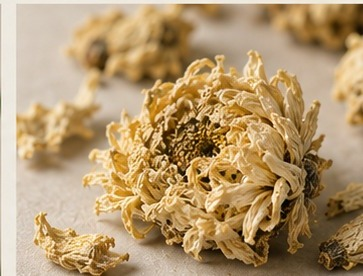
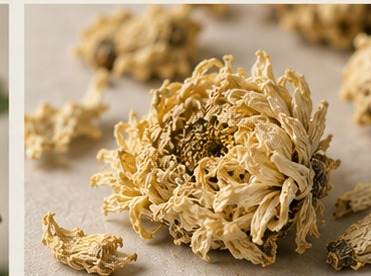
Revert left-crop on plate + dried images (restore all originals) (#7)
* Revert plate left-crop; restore 标本盘 plate originals

SPECIMEN PLATE (图像档案) images were over-cut — restore the six plate
originals and drop their cache-bust query.

* Also restore remaining detail/material originals

Per user: leave the other detail/material images untouched — restore
bc001-atlas-inner + detail-02/05 for bc002-006 to originals, drop their
?v=ls2. Full revert of the prior left-crop to a clean baseline.

---------

diff --git a/app.js b/app.js
@@ -6,7 +6,7 @@ const FILE_PAGE = name => `https://commons.wikimedia.org/wiki/File:${encodeURICo
 const HERBS = [
   {
     id:'bc001', no:'BC.001', name:'陈皮', pinyin:'CHÉN PÍ', latinDrug:'Citri Reticulatae Pericarpium', plant:'Citrus reticulata Blanco', part:'干燥成熟果皮', color:'#A87546', aromaColors:['#D79A55','#B8743E','#81705C'],
-    hero:'./images/bc001-hero-vf1.webp', origin:'./images/bc001-02-fresh-peel.jpg', material:'./images/bc001-03-dried-material.jpg', plate:'./images/bc001-study-detail-grid-01.jpg?v=ls2', detail1:'./images/bc001-atlas-outer.jpg', detail2:'./images/bc001-atlas-inner.jpg?v=ls2',
+    hero:'./images/bc001-hero-vf1.webp', origin:'./images/bc001-02-fresh-peel.jpg', material:'./images/bc001-03-dried-material.jpg', plate:'./images/bc001-study-detail-grid-01.jpg', detail1:'./images/bc001-atlas-outer.jpg', detail2:'./images/bc001-atlas-inner.jpg',
     heroPos:'56% 48%',
     today:['你可能已经见过它很多次。','今天，认真看一次。'],
     identity:{lead:'它来自成熟柑橘的果皮。',sub:'从果实到干燥后的材料，变化发生在时间里。',originTitle:'从果实开始。',originText:'剥开的果皮有清楚的内外两面。此时，它仍保留新鲜果实的颜色与水分。',materialTitle:'时间参与了形成。',materialText:'水分逐渐离开，果皮变干、卷曲、变轻；颜色、纹理与触感也随之改变。',note:'时间不是唯一的质量标准。品种、原料、加工与储存同样重要。'},
@@ -19,7 +19,7 @@ const HERBS = [
   },
   {
     id:'bc002', no:'BC.002', name:'薄荷', pinyin:'BÒ HÉ', latinDrug:'Menthae Haplocalycis Herba', plant:'Mentha haplocalyx Briq.', part:'干燥地上部分', color:'#71836B', aromaColors:['#75A06F','#84A876','#C7B55C'],
-    hero:'./images/bc002-hero-vf1.webp', origin:'./images/bc002-hero-vf1.webp', material:'./images/bc002-detail-01-vu1.jpg', plate:'./images/bc002-atlas-plate-vu1.jpg?v=ls2', detail1:'./images/bc002-detail-02-vu1.jpg?v=ls2', detail2:'./images/bc002-detail-03-vu1.jpg', atlasImages:[['./images/bc002-detail-01-vu1.jpg','植株全貌','植株挺立 · 叶片对生 · 叶色青绿'],['./images/bc002-detail-02-vu1.jpg?v=ls2','叶片表面','叶面皱缩 · 脉络清晰 · 细小腺点'],['./images/bc002-detail-03-vu1.jpg','叶片背面','叶背较浅 · 脉络凸起 · 细柔毛'],['./images/bc002-detail-04-vu1.jpg','茎与叶节','茎呈四棱 · 具细柔毛 · 叶对生于节上'],['./images/bc002-detail-05-vu1.jpg?v=ls2','花序','轮伞花序顶生 · 花小而密']], heroPos:'50% 45%',
+    hero:'./images/bc002-hero-vf1.webp', origin:'./images/bc002-hero-vf1.webp', material:'./images/bc002-detail-01-vu1.jpg', plate:'./images/bc002-atlas-plate-vu1.jpg', detail1:'./images/bc002-detail-02-vu1.jpg', detail2:'./images/bc002-detail-03-vu1.jpg', atlasImages:[['./images/bc002-detail-01-vu1.jpg','植株全貌','植株挺立 · 叶片对生 · 叶色青绿'],['./images/bc002-detail-02-vu1.jpg','叶片表面','叶面皱缩 · 脉络清晰 · 细小腺点'],['./images/bc002-detail-03-vu1.jpg','叶片背面','叶背较浅 · 脉络凸起 · 细柔毛'],['./images/bc002-detail-04-vu1.jpg','茎与叶节','茎呈四棱 · 具细柔毛 · 叶对生于节上'],['./images/bc002-detail-05-vu1.jpg','花序','轮伞花序顶生 · 花小而密']], heroPos:'50% 45%',
     today:['先不要把它等同于“清凉”。','先看一片叶。'],
     identity:{lead:'它来自一株有四棱茎、对生叶的薄荷。',sub:'被采收、干燥以后，叶、茎与花序一起成为药材的地上部分。',originTitle:'叶与茎先构成它。',originText:'叶片有清楚的脉络和锯齿边缘；茎有明显棱角。新鲜时，绿色与水分让结构显得舒展。',materialTitle:'叶、茎与花序共同构成地上部分。',materialText:'当前 Visual Study 先记录鲜活结构与可见特征；正式公开版再补拍同一摄影体系下的干燥药材整体。',note:'揉动会快速改变薄荷的气息，所以第一次闻之前，先不要揉。'},
     evidence:{mark:'药', title:'Menthae Haplocalycis Herba', lines:['干燥地上部分','辛，凉 · 肺、肝'], note:'传统 / 2025《中国药典》体系'},
@@ -31,7 +31,7 @@ const HERBS = [
   },
   {
     id:'bc003', no:'BC.003', name:'枸杞', pinyin:'GǑU QǏ', latinDrug:'Lycii Fructus', plant:'Lycium barbarum L.', part:'干燥成熟果实', color:'#A55343', aromaColors:['#C96D58','#B65B4B','#9C7659'],
-    hero:'./images/bc003-hero-vf1.webp', origin:'./images/bc003-hero-vf1.webp', material:'./images/bc003-detail-05-vu1.jpg?v=ls2', plate:'./images/bc003-atlas-plate-vu1.jpg?v=ls2', detail1:'./images/bc003-detail-03-vu1.jpg', detail2:'./images/bc003-detail-04-vu1.jpg', atlasImages:[['./images/bc003-detail-01-vu1.jpg','果枝全貌','枝条纤细 · 叶片互生 · 果实椭圆'],['./images/bc003-detail-02-vu1.jpg?v=ls2','叶片表面','叶片狭长 · 叶脉清晰 · 表面具细密纹理'],['./images/bc003-detail-03-vu1.jpg','果实表面','果实椭圆 · 表皮薄而光滑 · 微具纵纹'],['./images/bc003-detail-04-vu1.jpg','果实剖面','果肉柔软多汁 · 内含多枚扁平种子'],['./images/bc003-detail-05-vu1.jpg?v=ls2','干燥材料','干燥后果实皱缩 · 长椭圆形 · 表面纵皱']], heroPos:'50% 48%',
+    hero:'./images/bc003-hero-vf1.webp', origin:'./images/bc003-hero-vf1.webp', material:'./images/bc003-detail-05-vu1.jpg', plate:'./images/bc003-atlas-plate-vu1.jpg', detail1:'./images/bc003-detail-03-vu1.jpg', detail2:'./images/bc003-detail-04-vu1.jpg', atlasImages:[['./images/bc003-detail-01-vu1.jpg','果枝全貌','枝条纤细 · 叶片互生 · 果实椭圆'],['./images/bc003-detail-02-vu1.jpg','叶片表面','叶片狭长 · 叶脉清晰 · 表面具细密纹理'],['./images/bc003-detail-03-vu1.jpg','果实表面','果实椭圆 · 表皮薄而光滑 · 微具纵纹'],['./images/bc003-detail-04-vu1.jpg','果实剖面','果肉柔软多汁 · 内含多枚扁平种子'],['./images/bc003-detail-05-vu1.jpg','干燥材料','干燥后果实皱缩 · 长椭圆形 · 表面纵皱']], heroPos:'50% 48%',
     today:['它常常以一把红色出现。','今天，只看一颗。'],
     identity:{lead:'它来自宁夏枸杞的成熟果实。',sub:'成熟、采收、干燥之后，一颗多汁果实变成皱缩而柔韧的果干材料。',originTitle:'先是一颗成熟果实。',originText:'鲜果呈红色，轮廓饱满。单独看一颗时，果柄端、果尖与细微色差才会出现。',materialTitle:'干燥把水分收进皱纹里。',materialText:'果皮皱缩，体积减小；表面由光滑转为起伏，内部仍可能保留一定柔润感。',note:'枸杞常被当作食物，但本草镜第一版仍不鼓励品尝来源不明的材料。'},
     evidence:{mark:'药', title:'Lycii Fructus', lines:['宁夏枸杞的干燥成熟果实','甘，平 · 肝、肾'], note:'传统 / 2025《中国药典》体系'},
@@ -43,7 +43,7 @@ const HERBS = [
   },
   {
     id:'bc004', no:'BC.004', name:'桂花', pinyin:'GUÌ HUĀ', latinDrug:'Osmanthus fragrans (Thunb.) Lour.', plant:'Osmanthus fragrans (Thunb.) Lour.', part:'花（本草镜体验材料：来源明确的干燥桂花）', color:'#C49A4C', aromaColors:['#D6BA68','#C89E49','#A9845C'],
-    hero:'./images/bc004-hero-vf1.webp', origin:'./images/bc004-hero-vf1.webp', material:'./images/bc004-detail-05-vu1.jpg?v=ls2', plate:'./images/bc004-atlas-plate-vu1.jpg?v=ls2', detail1:'./images/bc004-detail-02-vu1.jpg?v=ls2', detail2:'./images/bc004-detail-03-vu1.jpg', atlasImages:[['./images/bc004-detail-01-vu1.jpg','花枝全貌','花簇生于叶腋 · 花叶相映 · 枝条舒展'],['./images/bc004-detail-02-vu1.jpg?v=ls2','花簇','小花密集成簇 · 花瓣肉质 · 淡黄色'],['./images/bc004-detail-03-vu1.jpg','单花结构','花冠四瓣 · 花瓣厚实 · 中央具短花蕊'],['./images/bc004-detail-04-vu1.jpg','叶片与叶脉','叶片革质 · 表面光滑 · 叶脉清晰'],['./images/bc004-detail-05-vu1.jpg?v=ls2','干燥花材','干燥后呈金黄色 · 花形完整或微卷']], heroPos:'50% 52%',
+    hero:'./images/bc004-hero-vf1.webp', origin:'./images/bc004-hero-vf1.webp', material:'./images/bc004-detail-05-vu1.jpg', plate:'./images/bc004-atlas-plate-vu1.jpg', detail1:'./images/bc004-detail-02-vu1.jpg', detail2:'./images/bc004-detail-03-vu1.jpg', atlasImages:[['./images/bc004-detail-01-vu1.jpg','花枝全貌','花簇生于叶腋 · 花叶相映 · 枝条舒展'],['./images/bc004-detail-02-vu1.jpg','花簇','小花密集成簇 · 花瓣肉质 · 淡黄色'],['./images/bc004-detail-03-vu1.jpg','单花结构','花冠四瓣 · 花瓣厚实 · 中央具短花蕊'],['./images/bc004-detail-04-vu1.jpg','叶片与叶脉','叶片革质 · 表面光滑 · 叶脉清晰'],['./images/bc004-detail-05-vu1.jpg','干燥花材','干燥后呈金黄色 · 花形完整或微卷']], heroPos:'50% 52%',
     today:['它很小，香气却常常先于形状被记住。','今天，先看见它。'],
     identity:{lead:'它来自木犀叶腋里成簇开放的小花。',sub:'花朵只有很小的尺度。干燥之后，颜色、卷曲和碎裂让它变成另一种轻盈材料。',originTitle:'先从叶腋里的花簇开始。',originText:'木犀的花聚在叶腋，花冠可呈黄白、淡黄、黄色或橙红。完整花朵本身很小。',materialTitle:'干燥会放大“轻”和“碎”。',materialText:'花冠收缩、颜色加深，花梗与碎瓣混在一起。少量材料就形成很高的表面积。',note:'桂花在本草镜中按植物与感官材料呈现，不把它标成现行《中国药典》标准药材。'},
     evidence:{mark:'', title:'Osmanthus fragrans (Thunb.) Lour.', lines:['木犀科 · 木犀属','花簇生叶腋 · 花极芳香'], note:'植物学身份记录；这里不使用“药”标签'},
@@ -55,7 +55,7 @@ const HERBS = [
   },
   {
     id:'bc005', no:'BC.005', name:'菊花', pinyin:'JÚ HUĀ', latinDrug:'Chrysanthemi Flos', plant:'Chrysanthemum morifolium Ramat.', part:'干燥头状花序', color:'#9A8B60', aromaColors:['#D3C48E','#B7A66D','#95836B'],
-    hero:'./images/bc005-hero-vf1.webp', origin:'./images/bc005-hero-vf1.webp', material:'./images/bc005-detail-05-vu1.jpg?v=ls2', plate:'./images/bc005-atlas-plate-vu1.jpg?v=ls2', detail1:'./images/bc005-detail-02-vu1.jpg?v=ls2', detail2:'./images/bc005-detail-03-vu1.jpg', atlasImages:[['./images/bc005-detail-01-vu1.jpg','花枝全貌','植株挺立 · 花枝分枝 · 花朵簇生'],['./images/bc005-detail-02-vu1.jpg?v=ls2','花序中心','管状花密集 · 球状排列 · 黄色'],['./images/bc005-detail-03-vu1.jpg','舌状花','舌状花呈长条形 · 边缘微卷 · 质地薄柔'],['./images/bc005-detail-04-vu1.jpg','花叶与花蕾','叶片羽状分裂 · 花蕾外层苞片紧密包裹'],['./images/bc005-detail-05-vu1.jpg?v=ls2','干燥花材','干燥后花形完整 · 瓣片皱缩卷曲 · 质地轻脆']], heroPos:'50% 46%',
+    hero:'./images/bc005-hero-vf1.webp', origin:'./images/bc005-hero-vf1.webp', material:'./images/bc005-detail-05-vu1.jpg', plate:'./images/bc005-atlas-plate-vu1.jpg', detail1:'./images/bc005-detail-02-vu1.jpg', detail2:'./images/bc005-detail-03-vu1.jpg', atlasImages:[['./images/bc005-detail-01-vu1.jpg','花枝全貌','植株挺立 · 花枝分枝 · 花朵簇生'],['./images/bc005-detail-02-vu1.jpg','花序中心','管状花密集 · 球状排列 · 黄色'],['./images/bc005-detail-03-vu1.jpg','舌状花','舌状花呈长条形 · 边缘微卷 · 质地薄柔'],['./images/bc005-detail-04-vu1.jpg','花叶与花蕾','叶片羽状分裂 · 花蕾外层苞片紧密包裹'],['./images/bc005-detail-05-vu1.jpg','干燥花材','干燥后花形完整 · 瓣片皱缩卷曲 · 质地轻脆']], heroPos:'50% 46%',
     today:['“一朵菊花”其实有很多层。','今天，从花心往外看。'],
     identity:{lead:'它来自菊的头状花序。',sub:'盛开时采收，经过不同加工方式后，花序整体成为干燥材料。',originTitle:'它不是单一的一片花瓣。',originText:'外围与中央的花在同一个花序里形成层次；颜色、形态与排列让整朵花有明确中心。',materialTitle:'干燥保留了花序，也改变了支撑。',materialText:'花瓣折缩、花心变得密实或松散，整体变轻、变脆；不同产地和加工方式也会带来外观差异。',note:'菊花药材按产地与加工方法可分多种类型；原型页面不把某一张视觉研究图当作全部菊花。'},
     evidence:{mark:'药', title:'Chrysanthemi Flos', lines:['菊的干燥头状花序','甘、苦，微寒 · 肺、肝'], note:'传统 / 2025《中国药典》体系'},
@@ -67,7 +67,7 @@ const HERBS = [
   },
   {
     id:'bc006', no:'BC.006', name:'紫苏', pinyin:'ZǏ SŪ', latinDrug:'Perillae Folium', plant:'Perilla frutescens (L.) Britt.', part:'干燥叶（或带嫩枝）', color:'#74586C', aromaColors:['#8A687C','#745768','#87735C'],
-    hero:'./images/bc006-hero-vf1.webp', origin:'./images/bc006-hero-vf1.webp', material:'./images/bc006-detail-05-vu1.jpg?v=ls2', plate:'./images/bc006-atlas-plate-vu1.jpg?v=ls2', detail1:'./images/bc006-detail-02-vu1.jpg?v=ls2', detail2:'./images/bc006-detail-03-vu1.jpg', atlasImages:[['./images/bc006-detail-01-vu1.jpg','叶枝全貌','植株挺立 · 叶片对生 · 叶形宽卵 · 叶缘锯齿'],['./images/bc006-detail-02-vu1.jpg?v=ls2','叶片表面','叶面紫红 · 脉络清晰 · 具细小腺点'],['./images/bc006-detail-03-vu1.jpg','叶片背面','叶背色较浅 · 脉络隆起 · 密被短柔毛'],['./images/bc006-detail-04-vu1.jpg','茎与叶节','茎呈紫绿色 · 具细柔毛 · 叶对生于节上'],['./images/bc006-detail-05-vu1.jpg?v=ls2','干燥叶材','干燥后叶片卷曲 · 质地轻脆 · 色泽紫褐']], heroPos:'50% 45%',
+    hero:'./images/bc006-hero-vf1.webp', origin:'./images/bc006-hero-vf1.webp', material:'./images/bc006-detail-05-vu1.jpg', plate:'./images/bc006-atlas-plate-vu1.jpg', detail1:'./images/bc006-detail-02-vu1.jpg', detail2:'./images/bc006-detail-03-vu1.jpg', atlasImages:[['./images/bc006-detail-01-vu1.jpg','叶枝全貌','植株挺立 · 叶片对生 · 叶形宽卵 · 叶缘锯齿'],['./images/bc006-detail-02-vu1.jpg','叶片表面','叶面紫红 · 脉络清晰 · 具细小腺点'],['./images/bc006-detail-03-vu1.jpg','叶片背面','叶背色较浅 · 脉络隆起 · 密被短柔毛'],['./images/bc006-detail-04-vu1.jpg','茎与叶节','茎呈紫绿色 · 具细柔毛 · 叶对生于节上'],['./images/bc006-detail-05-vu1.jpg','干燥叶材','干燥后叶片卷曲 · 质地轻脆 · 色泽紫褐']], heroPos:'50% 45%',
     today:['先别只看它的紫。','沿着叶脉走一次。'],
     identity:{lead:'它来自紫苏的叶，或带嫩枝的叶。',sub:'鲜叶有清楚的锯齿、叶脉和上下表面；干燥后会皱缩卷曲，颜色与脆度一起改变。',originTitle:'一片叶先有方向。',originText:'叶尖、叶基、圆锯齿与中脉共同建立轮廓；不同植株可呈紫色，或上表面偏绿、下表面偏紫。',materialTitle:'干燥把一片展开的叶变成卷曲薄片。',materialText:'叶片失水后容易皱缩、破碎，边缘和叶脉仍是辨认材料状态的重要视觉线索。',note:'当前紫苏 Material Atlas 使用叶片结构视觉研究图作为摄影占位；正式发布前应补拍可核验的干燥紫苏叶材料。'},
     evidence:{mark:'药', title:'Perillae Folium', lines:['干燥叶（或带嫩枝）','辛，温 · 肺、脾'], note:'传统 / 2025《中国药典》体系'},
